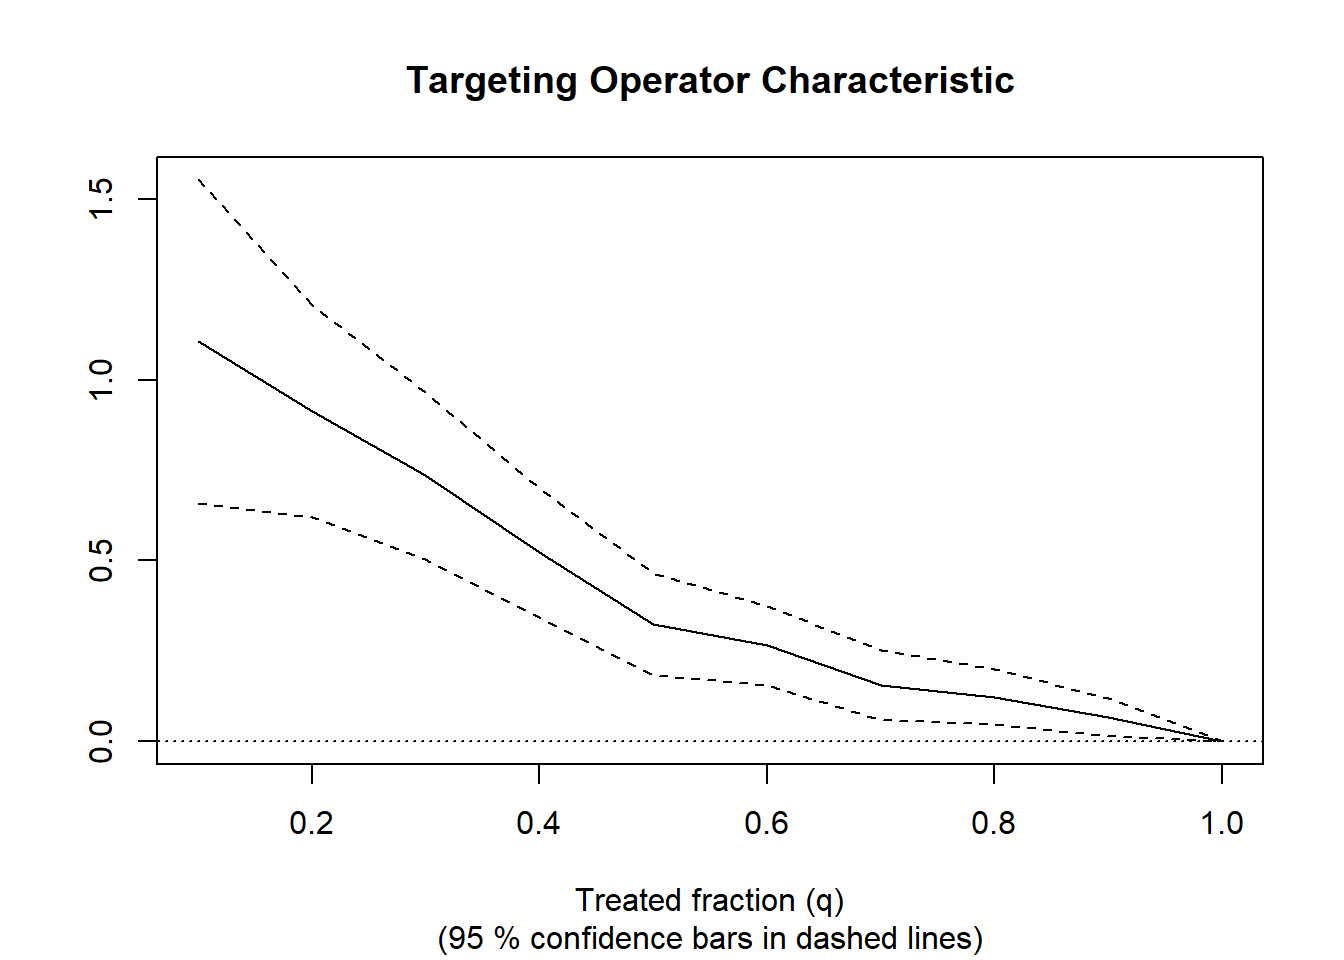
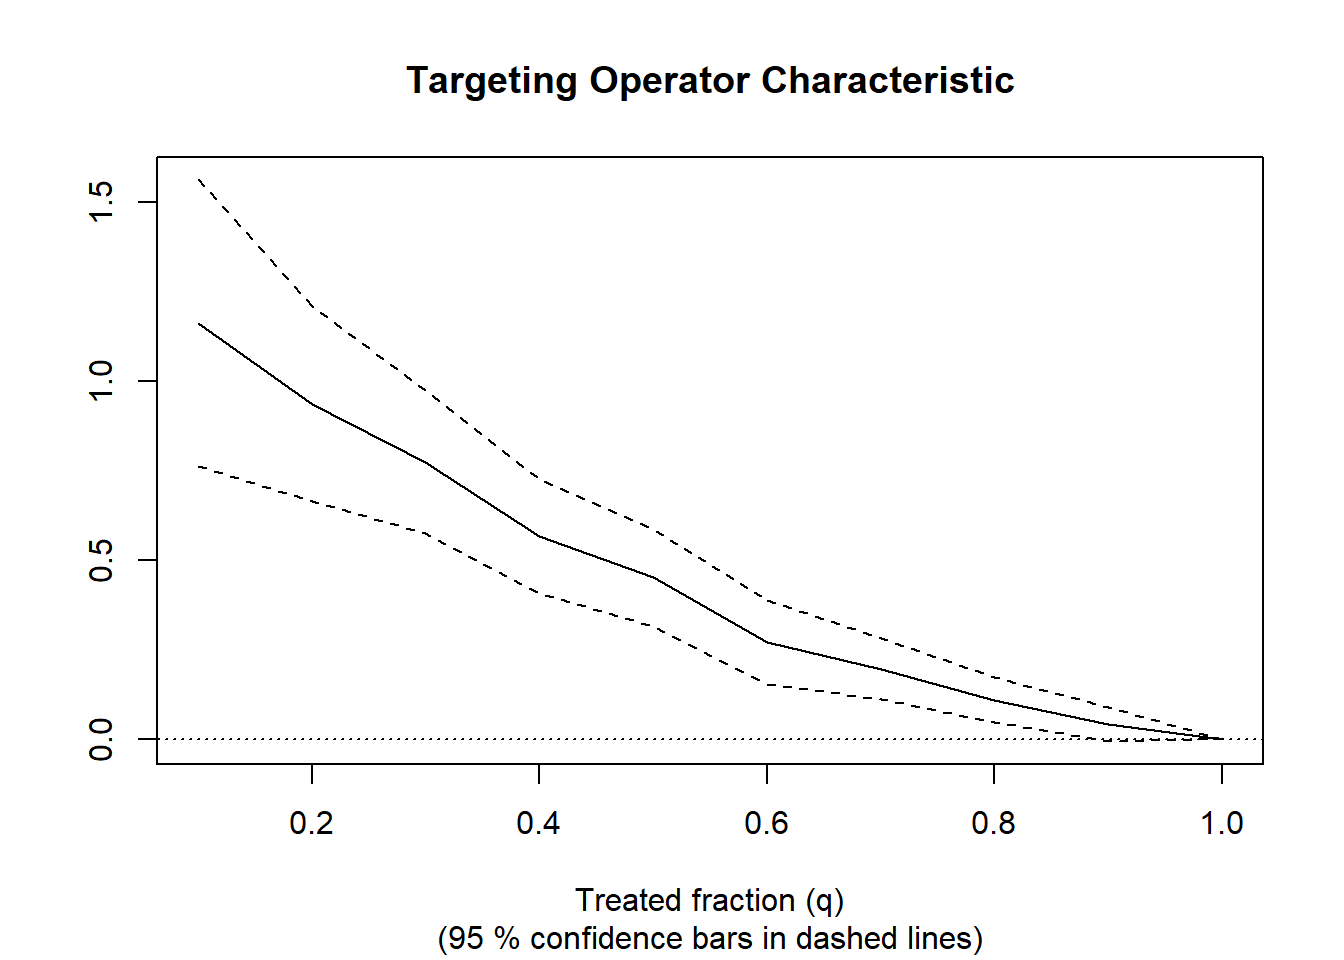
v260515

diff --git a/docs/blog/blog_20260515_MLCF2026/index.html b/docs/blog/blog_20260515_MLCF2026/index.html
@@ -6,7 +6,7 @@
 
 <meta name="viewport" content="width=device-width, initial-scale=1.0, user-scalable=yes">
 
-<meta name="author" content="홍 철">
+<meta name="author" content="Iron Hong">
 <meta name="dcterms.date" content="2026-05-14">
 
 <title>머신러닝 기반 인과추론 방법론: Causal forests – Life is short, learning is long.</title>
@@ -227,7 +227,7 @@ window.Quarto = {
     <div>
     <div class="quarto-title-meta-heading">Author</div>
     <div class="quarto-title-meta-contents">
-             <p>홍 철 </p>
+             <p>Iron Hong </p>
           </div>
   </div>
     
@@ -302,7 +302,7 @@ window.Quarto = {
 <div class="code-copy-outer-scaffold"><div class="sourceCode cell-code" id="cb4"><pre class="sourceCode r code-with-copy"><code class="sourceCode r"><span id="cb4-1"><a href="#cb4-1" aria-hidden="true" tabindex="-1"></a><span class="fu">average_treatment_effect</span>(tau.forest, <span class="at">target.sample =</span> <span class="st">"all"</span>)</span></code></pre></div><button title="Copy to Clipboard" class="code-copy-button"><i class="bi"></i></button></div>
 <div class="cell-output cell-output-stdout">
 <pre><code>  estimate    std.err 
-0.38153927 0.05045687 </code></pre>
+0.39333992 0.04802984 </code></pre>
 </div>
 </div>
 </section>
@@ -347,7 +347,7 @@ window.Quarto = {
 </div>
 <div class="code-copy-outer-scaffold"><div class="sourceCode cell-code" id="cb8"><pre class="sourceCode r code-with-copy"><code class="sourceCode r"><span id="cb8-1"><a href="#cb8-1" aria-hidden="true" tabindex="-1"></a><span class="fu">paste</span>(<span class="st">"AUTOC:"</span>, <span class="fu">round</span>(rate<span class="sc">$</span>estimate, <span class="dv">2</span>), <span class="st">"+/"</span>, <span class="fu">round</span>(<span class="fl">1.96</span> <span class="sc">*</span> rate<span class="sc">$</span>std.err, <span class="dv">2</span>))</span></code></pre></div><button title="Copy to Clipboard" class="code-copy-button"><i class="bi"></i></button></div>
 <div class="cell-output cell-output-stdout">
-<pre><code>[1] "AUTOC: 0.5 +/ 0.16"</code></pre>
+<pre><code>[1] "AUTOC: 0.51 +/ 0.13"</code></pre>
 </div>
 </div>
 </section>

diff --git a/docs/blog/blog.html b/docs/blog/blog.html
@@ -221,7 +221,7 @@ Date
 </thead>
 <tbody class="list">
 
-<tr data-index="0" data-categories="Qmlvc3RhdGlzdGljcw==" data-listing-date-sort="1778684400000" data-listing-file-modified-sort="1778752419565" data-listing-date-modified-sort="NaN" data-listing-reading-time-sort="6" data-listing-word-count-sort="1045" data-listing-title-sort="머신러닝 기반 인과추론 방법론: Causal forests" data-listing-filename-sort="index.qmd">
+<tr data-index="0" data-categories="Qmlvc3RhdGlzdGljcw==" data-listing-date-sort="1778684400000" data-listing-file-modified-sort="1778752791414" data-listing-date-modified-sort="NaN" data-listing-reading-time-sort="6" data-listing-word-count-sort="1045" data-listing-title-sort="머신러닝 기반 인과추론 방법론: Causal forests" data-listing-filename-sort="index.qmd">
 <td>
 <a href="../blog/blog_20260515_MLCF2026/index.html" class="title listing-title">머신러닝 기반 인과추론 방법론: Causal forests</a>
 </td>
